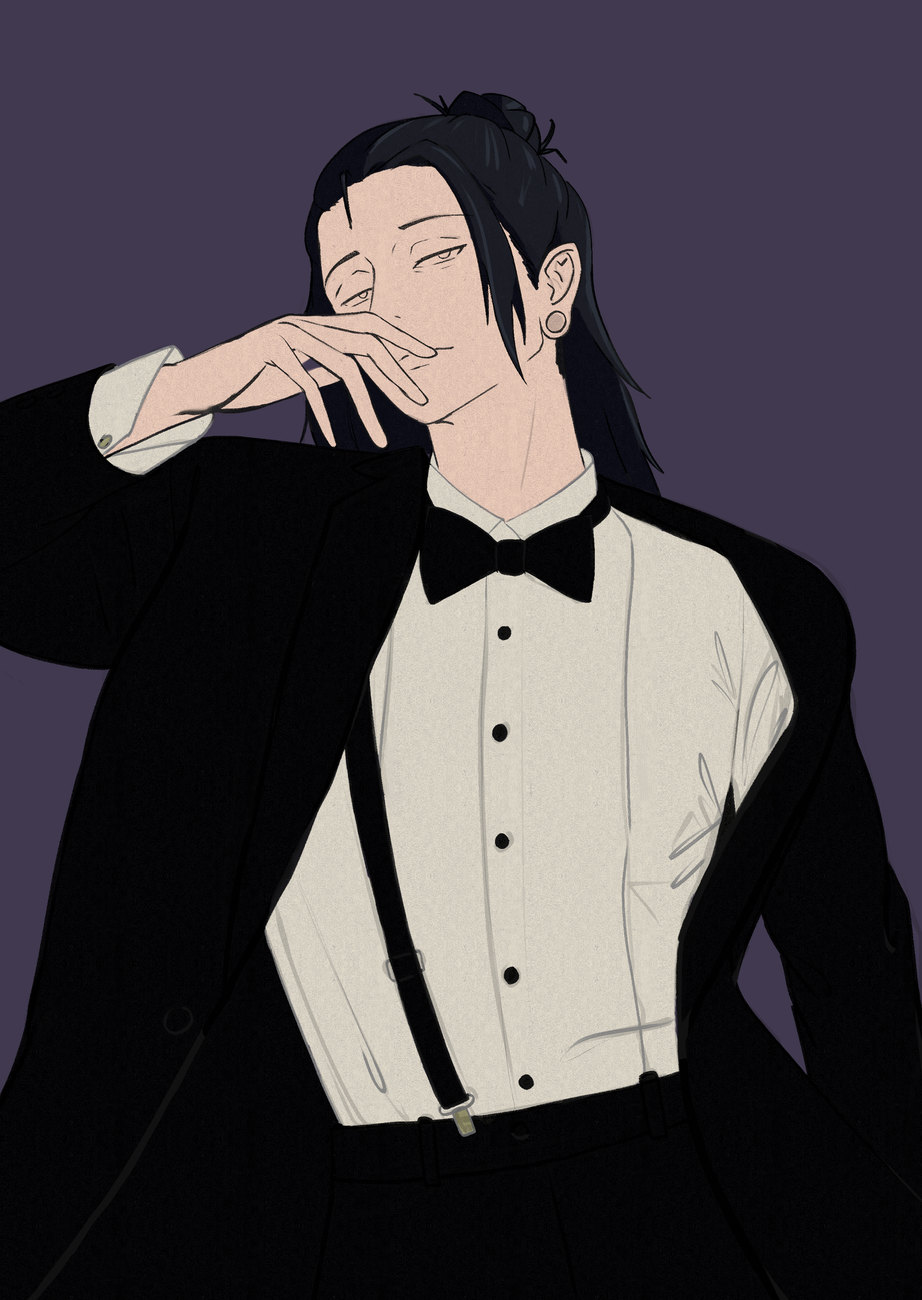
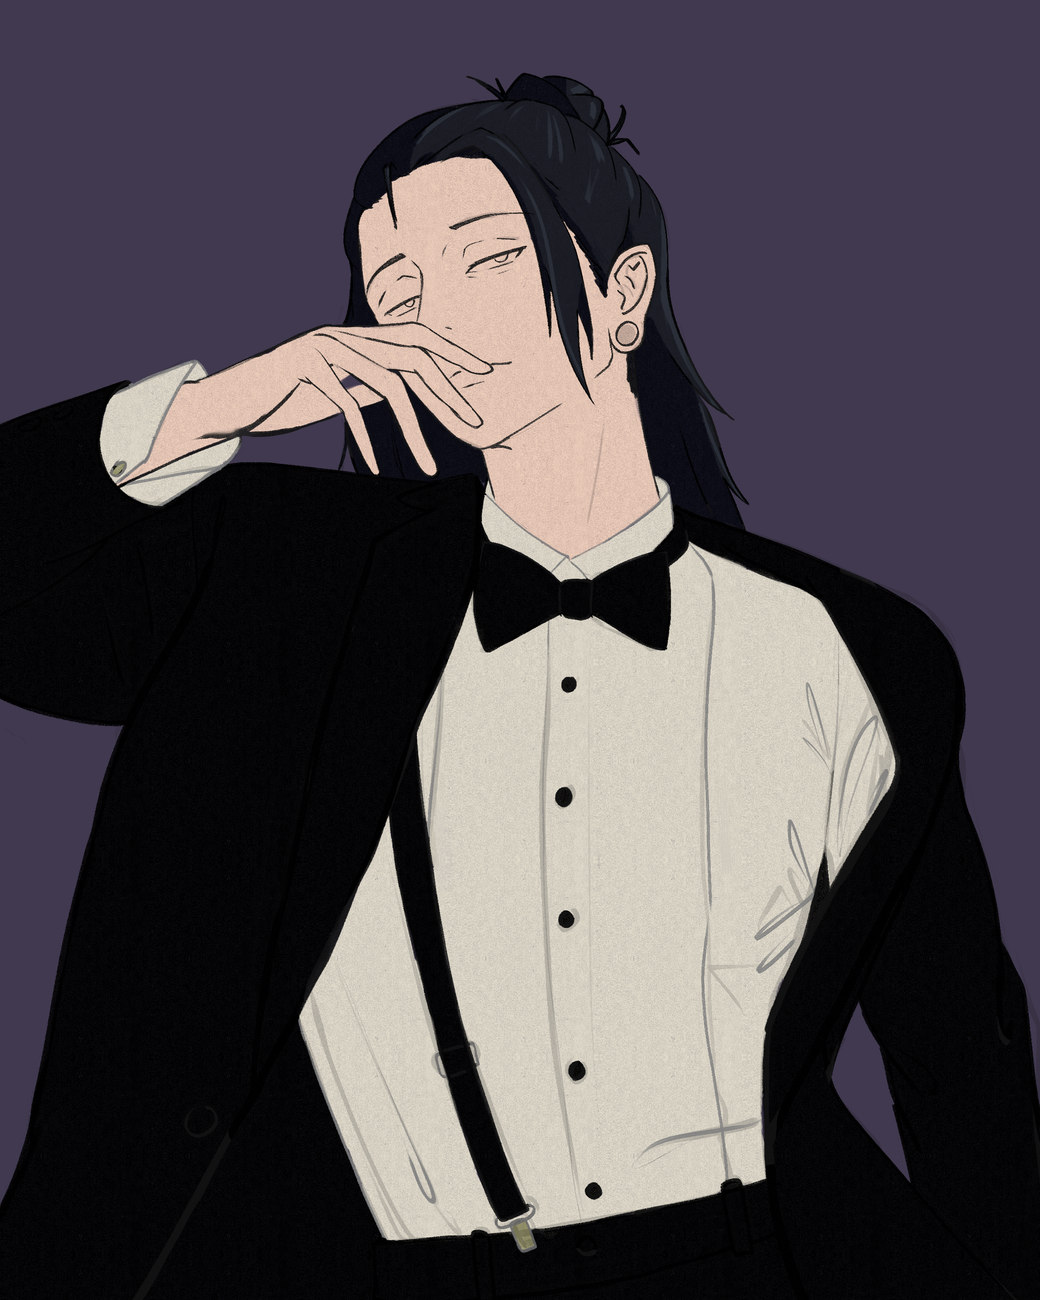
Prices: tidy stage examples (no cropped figures, consistent full-body set, tabs below image)
Claude-Session: https://claude.ai/code/session_01XR3e5tNyaEtZwWGzoHS52Y

Changed region(s): [[0.0, 0.0615, 1.0, 0.9846], [0.0, 0.4923, 0.1215, 0.9231], [0.6074, 0.1231, 0.6377, 0.1538]]

diff --git a/index.html b/index.html
@@ -247,14 +247,14 @@
   .stage-img.on{opacity:1;z-index:1}
   .card:hover .stage-img.on{transform:scale(1.03)}
   .stage-tabs{
-    position:absolute;left:12px;bottom:12px;z-index:2;display:flex;gap:2px;padding:3px;
-    background:rgba(13,12,16,.72);border:1px solid var(--line);border-radius:100px;
-    -webkit-backdrop-filter:blur(8px);backdrop-filter:blur(8px);
+    display:grid;grid-template-columns:repeat(3,1fr);gap:3px;padding:3px;margin:0 0 22px;
+    background:rgba(255,255,255,.03);border:1px solid var(--line);border-radius:100px;
   }
   .stage-tabs button{
-    background:none;border:0;cursor:pointer;color:#cfc9dc;font-size:11px;letter-spacing:.1em;text-transform:uppercase;
-    padding:6px 11px;border-radius:100px;transition:background .2s,color .2s;
+    background:none;border:0;cursor:pointer;color:var(--muted);font-size:11.5px;letter-spacing:.1em;text-transform:uppercase;
+    padding:8px 6px;border-radius:100px;transition:background .2s,color .2s;
   }
+  .stage-tabs button:hover{color:var(--ink)}
   .stage-tabs button.on{background:var(--accent);color:#100e14;font-weight:600}
   .card-body{padding:clamp(20px,2.2vw,30px);display:flex;flex-direction:column;flex:1}
   .card h3{font-size:clamp(26px,2.6vw,34px);letter-spacing:.03em;text-transform:uppercase;margin-bottom:6px}
@@ -454,12 +454,12 @@
       <div class="cards">
         <article class="card" data-stage="render">
           <div class="card-ex">
-            <img class="stage-img" data-stage="sketch" data-open="assets/stages/bust-sketch.jpg" src="assets/stages/bust-sketch.jpg" width="1300" height="919" loading="lazy" alt="Bust example — sketch" style="object-position:22% 40%">
+            <img class="stage-img" data-stage="sketch" data-open="assets/stages/bust-sketch.jpg" src="assets/stages/bust-sketch.jpg" width="1040" height="1300" loading="lazy" alt="Bust example — sketch">
             <img class="stage-img" data-stage="flat" data-open="assets/works/w17.jpg" src="assets/thumbs/w17.jpg" width="1100" height="892" loading="lazy" alt="Bust example — flat" style="object-position:45% 30%">
             <img class="stage-img on" data-stage="render" data-open="assets/works/w01.jpg" src="assets/thumbs/w01.jpg" width="1100" height="651" loading="lazy" alt="Bust example — render" style="object-position:58% 40%">
-            <div class="stage-tabs" role="group" aria-label="Level of finish"><button type="button" data-stage="sketch" data-en="Sketch" data-ru="Скетч">Sketch</button><button type="button" data-stage="flat" data-en="Flat" data-ru="Флэт">Flat</button><button type="button" data-stage="render" class="on" data-en="Render" data-ru="Рендер">Render</button></div>
           </div>
           <div class="card-body">
+            <div class="stage-tabs" role="group" aria-label="Level of finish"><button type="button" data-stage="sketch" data-en="Sketch" data-ru="Скетч">Sketch</button><button type="button" data-stage="flat" data-en="Flat" data-ru="Флэт">Flat</button><button type="button" data-stage="render" class="on" data-en="Render" data-ru="Рендер">Render</button></div>
             <h3 data-en="Bust" data-ru="Бюст">Bust</h3>
             <p class="scope" data-en="Chest-up, focus on face and lighting." data-ru="По грудь, акцент на&nbsp;лице и&nbsp;свете.">Chest-up, focus on face and lighting.</p>
             <div class="tiers">
@@ -472,12 +472,12 @@
 
         <article class="card" data-stage="render">
           <div class="card-ex">
-            <img class="stage-img" data-stage="sketch" data-open="assets/stages/half-sketch.jpg" src="assets/stages/half-sketch.jpg" width="922" height="1300" loading="lazy" alt="Half body example — sketch" style="object-position:50% 20%">
-            <img class="stage-img" data-stage="flat" data-open="assets/stages/half-flat.jpg" src="assets/stages/half-flat.jpg" width="922" height="1300" loading="lazy" alt="Half body example — flat" style="object-position:50% 20%">
-            <img class="stage-img on" data-stage="render" data-open="assets/stages/half-render.jpg" src="assets/stages/half-render.jpg" width="922" height="1300" loading="lazy" alt="Half body example — render" style="object-position:50% 20%">
-            <div class="stage-tabs" role="group" aria-label="Level of finish"><button type="button" data-stage="sketch" data-en="Sketch" data-ru="Скетч">Sketch</button><button type="button" data-stage="flat" data-en="Flat" data-ru="Флэт">Flat</button><button type="button" data-stage="render" class="on" data-en="Render" data-ru="Рендер">Render</button></div>
+            <img class="stage-img" data-stage="sketch" data-open="assets/stages/half-sketch.jpg" src="assets/stages/half-sketch.jpg" width="1040" height="1300" loading="lazy" alt="Half body example — sketch">
+            <img class="stage-img" data-stage="flat" data-open="assets/stages/half-flat.jpg" src="assets/stages/half-flat.jpg" width="1040" height="1300" loading="lazy" alt="Half body example — flat">
+            <img class="stage-img on" data-stage="render" data-open="assets/stages/half-render.jpg" src="assets/stages/half-render.jpg" width="1040" height="1300" loading="lazy" alt="Half body example — render">
           </div>
           <div class="card-body">
+            <div class="stage-tabs" role="group" aria-label="Level of finish"><button type="button" data-stage="sketch" data-en="Sketch" data-ru="Скетч">Sketch</button><button type="button" data-stage="flat" data-en="Flat" data-ru="Флэт">Flat</button><button type="button" data-stage="render" class="on" data-en="Render" data-ru="Рендер">Render</button></div>
             <h3 data-en="Half body" data-ru="Полурост">Half body</h3>
             <p class="scope" data-en="Thigh-up, hands and pose included." data-ru="До&nbsp;бёдер, руки и&nbsp;поза включены.">Thigh-up, hands and pose included.</p>
             <div class="tiers">
@@ -490,12 +490,12 @@
 
         <article class="card" data-stage="render">
           <div class="card-ex">
-            <img class="stage-img" data-stage="sketch" data-open="assets/stages/full-sketch.jpg" src="assets/stages/full-sketch.jpg" width="922" height="1300" loading="lazy" alt="Full body example — sketch" style="object-position:50% 40%">
-            <img class="stage-img" data-stage="flat" data-open="assets/stages/full-flat.jpg" src="assets/stages/full-flat.jpg" width="922" height="1300" loading="lazy" alt="Full body example — flat" style="object-position:50% 40%">
-            <img class="stage-img on" data-stage="render" data-open="assets/works/w12.jpg" src="assets/thumbs/w12.jpg" width="929" height="1100" loading="lazy" alt="Full body example — render" style="object-position:50% 50%">
-            <div class="stage-tabs" role="group" aria-label="Level of finish"><button type="button" data-stage="sketch" data-en="Sketch" data-ru="Скетч">Sketch</button><button type="button" data-stage="flat" data-en="Flat" data-ru="Флэт">Flat</button><button type="button" data-stage="render" class="on" data-en="Render" data-ru="Рендер">Render</button></div>
+            <img class="stage-img" data-stage="sketch" data-open="assets/stages/full-sketch.jpg" src="assets/stages/full-sketch.jpg" width="1040" height="1300" loading="lazy" alt="Full body example — sketch">
+            <img class="stage-img" data-stage="flat" data-open="assets/stages/full-flat.jpg" src="assets/stages/full-flat.jpg" width="1040" height="1300" loading="lazy" alt="Full body example — flat">
+            <img class="stage-img on" data-stage="render" data-open="assets/stages/full-render.jpg" src="assets/stages/full-render.jpg" width="1040" height="1300" loading="lazy" alt="Full body example — render">
           </div>
           <div class="card-body">
+            <div class="stage-tabs" role="group" aria-label="Level of finish"><button type="button" data-stage="sketch" data-en="Sketch" data-ru="Скетч">Sketch</button><button type="button" data-stage="flat" data-en="Flat" data-ru="Флэт">Flat</button><button type="button" data-stage="render" class="on" data-en="Render" data-ru="Рендер">Render</button></div>
             <h3 data-en="Full body" data-ru="Полный рост">Full body</h3>
             <p class="scope" data-en="The whole figure, pose and attitude." data-ru="Фигура целиком, поза и&nbsp;характер.">The whole figure, pose and attitude.</p>
             <div class="tiers">
